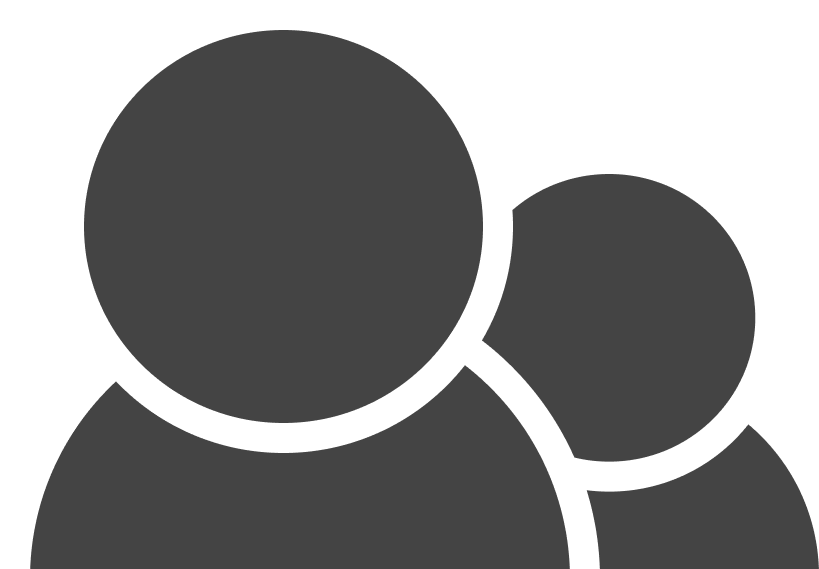
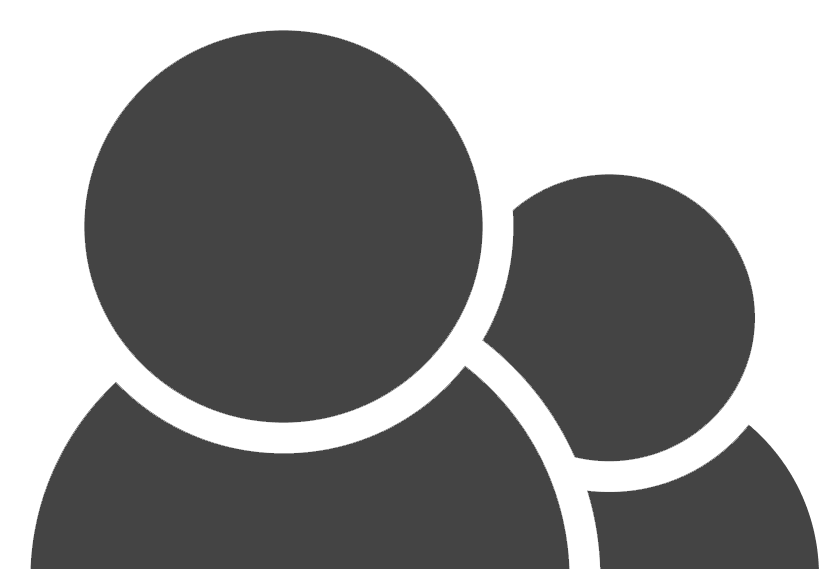
changes to background

diff --git a/web-app/src/Components/View.jsx b/web-app/src/Components/View.jsx
@@ -77,11 +77,11 @@ export default class View extends React.Component {
             if(this.state.channel == 'tasks'){
                 return {backgroundImage: 'url(/static/media/taskTab.42f108f6.png)'};
             }else{
-                return {backgroundImage: 'url(/static/media/userTab.88ed72d3.png)'};
+                return {backgroundImage: 'url(/static/media/userTab.7f56161e.png)'};
             }
         }else{
             if(this.state.channel == 'tasks'){
-                return {backgroundImage: 'url(/static/media/userTab.88ed72d3.png)'};
+                return {backgroundImage: 'url(/static/media/userTab.7f56161e.png)'};
             }else{
                 return {backgroundImage: 'url(/static/media/taskTab.42f108f6.png)'};
             }

diff --git a/web-app/src/signin.css b/web-app/src/signin.css
@@ -1,12 +1,3 @@
-body{
-    background: linear-gradient(to bottom right, #73C8A9, #373B44);
-    margin: 0;
-    background-repeat: no-repeat;
-    background-attachment: fixed;
-    width: 100%;
-    height: 100%;
-}
-
 /*this is the container that wraps the sign in credentials from username to sign up button*/
 .test{
     position: relative;

diff --git a/web-app/src/home.css b/web-app/src/home.css
@@ -2,10 +2,11 @@
 body{
     width: 100%;
     height: 100%;
-    background: linear-gradient(to bottom right, #73C8A9, #373B44);
     margin: 0;
     background-repeat: no-repeat;
     background-attachment: fixed;
+    background-image: url('Frame.png'), linear-gradient(140deg, #73C8A9 15%, #373B44);
+    background-repeat: repeat;
 }
 
 
